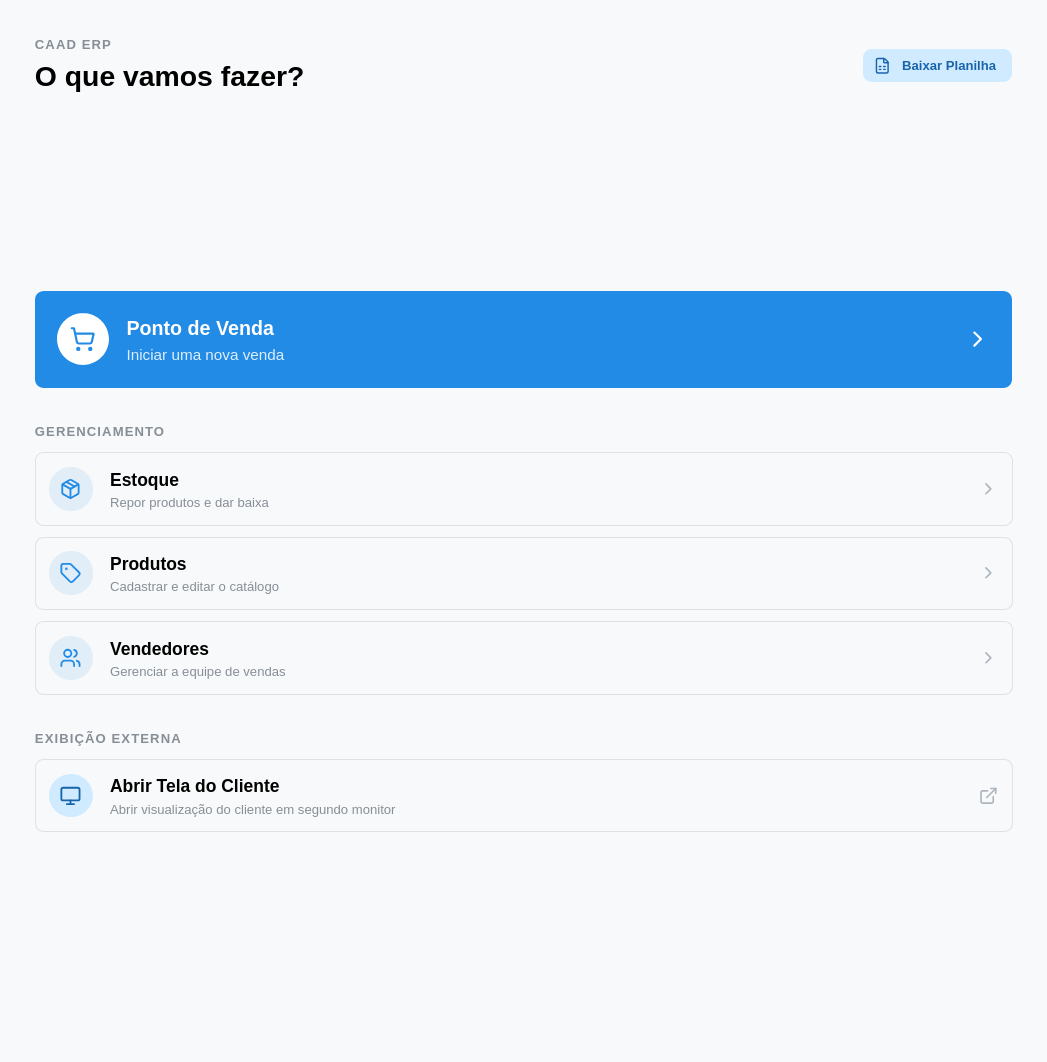
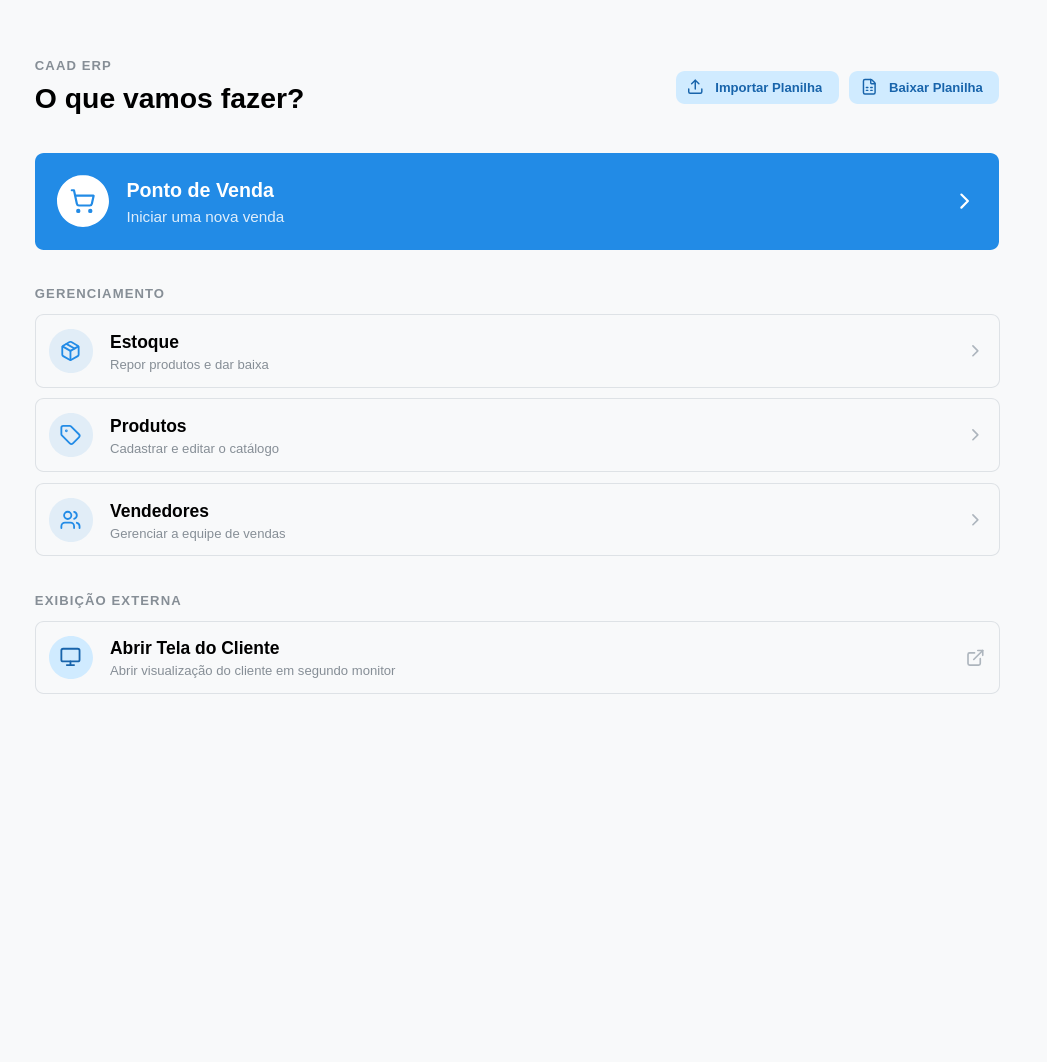
Format, lint, and fix but after tests

Changed region(s): [[0.0306, 0.0311, 0.978, 0.6525], [0.0306, 0.6836, 0.3668, 0.7768]]

diff --git a/backend/tests/payments/mercadoPago.test.ts b/backend/tests/payments/mercadoPago.test.ts
@@ -40,13 +40,18 @@ function createMockReqRes(
         end(data?: string) {
             if (data) this.body += data
         },
-    } as unknown as ServerResponse & { statusCode: number; headers: Record<string, string>; body: string }
+    } as unknown as ServerResponse & {
+        statusCode: number
+        headers: Record<string, string>
+        body: string
+    }
 
     const triggerReq = async () => {
         if (emitErrorOnRead) {
             req.emit("error", new Error("Read stream failure"))
         } else if (bodyPayload !== undefined) {
-            const dataStr = typeof bodyPayload === "string" ? bodyPayload : JSON.stringify(bodyPayload)
+            const dataStr =
+                typeof bodyPayload === "string" ? bodyPayload : JSON.stringify(bodyPayload)
             req.emit("data", Buffer.from(dataStr))
             req.emit("end")
         } else {
@@ -114,7 +119,11 @@ describe("Mercado Pago Payment Route Handler", () => {
         })
 
         it("returns 400 when request body contains invalid JSON", async () => {
-            const { req, res, triggerReq } = createMockReqRes("POST", "/api/payments/pix", "invalid { json")
+            const { req, res, triggerReq } = createMockReqRes(
+                "POST",
+                "/api/payments/pix",
+                "invalid { json",
+            )
             const routePromise = handlePaymentsRoute(req, res)
             await triggerReq()
             await routePromise
@@ -124,7 +133,12 @@ describe("Mercado Pago Payment Route Handler", () => {
         })
 
         it("returns 400 when stream reading emits an error", async () => {
-            const { req, res, triggerReq } = createMockReqRes("POST", "/api/payments/pix", undefined, true)
+            const { req, res, triggerReq } = createMockReqRes(
+                "POST",
+                "/api/payments/pix",
+                undefined,
+                true,
+            )
             const routePromise = handlePaymentsRoute(req, res)
             await triggerReq()
             await routePromise

diff --git a/backend/tests/trpc/routers.test.ts b/backend/tests/trpc/routers.test.ts
@@ -468,13 +468,15 @@ describe("tRPC Service Layer Integration Suite", () => {
             const single = await caller.transactions.get({ id: restock.id })
             expect(single.id).toBe(restock.id)
 
-            await expect(caller.transactions.get({ id: "TX-NON-EXISTENT" })).rejects.toThrow(TRPCError)
+            await expect(caller.transactions.get({ id: "TX-NON-EXISTENT" })).rejects.toThrow(
+                TRPCError,
+            )
         })
 
         it("GIVEN invalid procedure input WHEN procedure is called THEN domainErrorTranslator executes cause fallback", async () => {
-            await expect(caller.products.add({ id: "", name: "Invalid", sellPrice: 10, isActive: true })).rejects.toThrow(TRPCError)
+            await expect(
+                caller.products.add({ id: "", name: "Invalid", sellPrice: 10, isActive: true }),
+            ).rejects.toThrow(TRPCError)
         })
     })
 })
-
-

diff --git a/backend/tests/trpc/server.test.ts b/backend/tests/trpc/server.test.ts
@@ -52,7 +52,7 @@ describe("tRPC and Payments HTTP Server (server.ts)", () => {
     })
 
     it("handles CORS OPTIONS preflight request for tRPC endpoints", async () => {
-        const res = await fetch(`http://localhost:${port}/trpc/products.list`, {
+        const res = await fetch(`http://localhost:${port}/products.list`, {
             method: "OPTIONS",
         })
         expect(res.status).toBe(200)
@@ -74,7 +74,7 @@ describe("tRPC and Payments HTTP Server (server.ts)", () => {
     })
 
     it("dispatches non-payment routes to tRPC handler", async () => {
-        const res = await fetch(`http://localhost:${port}/trpc/products.list`)
+        const res = await fetch(`http://localhost:${port}/products.list`)
         expect(res.status).toBe(200)
         const data = await res.json()
         expect(data).toHaveProperty("result")

diff --git a/backend/tests/bll/reports.test.ts b/backend/tests/bll/reports.test.ts
@@ -185,7 +185,6 @@ describe("Reporting Analytics BLL Handlers", () => {
             paymentType: "OnCredit",
         })
 
-
         const report = calculateOutstandingDebts(db)
         expect(report.balances.find((b) => b.transactionId === creditSale.id)).toBeUndefined()
     })
@@ -255,5 +254,3 @@ describe("Reporting Analytics BLL Handlers", () => {
         expect(report.balances.find((b) => b.transactionId === "T-ORPHAN")).toBeUndefined()
     })
 })
-
-

diff --git a/backend/tests/bll/transactions.test.ts b/backend/tests/bll/transactions.test.ts
@@ -365,7 +365,6 @@ describe("Transaction Ledger BLL Handlers", () => {
         ).toThrow(IneligibleCreditSaleError)
     })
 
-
     it("GIVEN a target transaction WHEN recordVoid is called THEN creates exact reversing VOID entry", () => {
         // Arrange
         const saleTx = recordSale(db, {
@@ -476,4 +475,3 @@ describe("Transaction Ledger BLL Handlers", () => {
         ).toThrow(SalesmanInactiveError)
     })
 })
-

diff --git a/backend/src/trpc/server.ts b/backend/src/trpc/server.ts
@@ -25,7 +25,6 @@ export function createAppServer(activeDb?: DB) {
     const database = activeDb ?? drizzle(new Database("caad_erp.db"), { schema })
 
     const trpcHandler = createHTTPHandler({
-        basePath: "/trpc/",
         middleware: (_req, res, next) => {
             res.setHeader("Access-Control-Allow-Origin", "*")
             res.setHeader("Access-Control-Allow-Methods", "GET, POST, OPTIONS")

diff --git a/backend/tests/excel/excel.test.ts b/backend/tests/excel/excel.test.ts
@@ -289,5 +289,3 @@ describe("Excel Importer (importWorkbook)", () => {
         expect(prods.find((p) => p.id === "P12")?.isActive).toBe(false)
     })
 })
-
-

diff --git a/backend/tests/bll/validator.test.ts b/backend/tests/bll/validator.test.ts
@@ -12,4 +12,3 @@ describe("BLL Validator", () => {
         expect(() => validateSchema(schema, { name: 123 })).toThrow(InvalidAttributeError)
     })
 })
-
